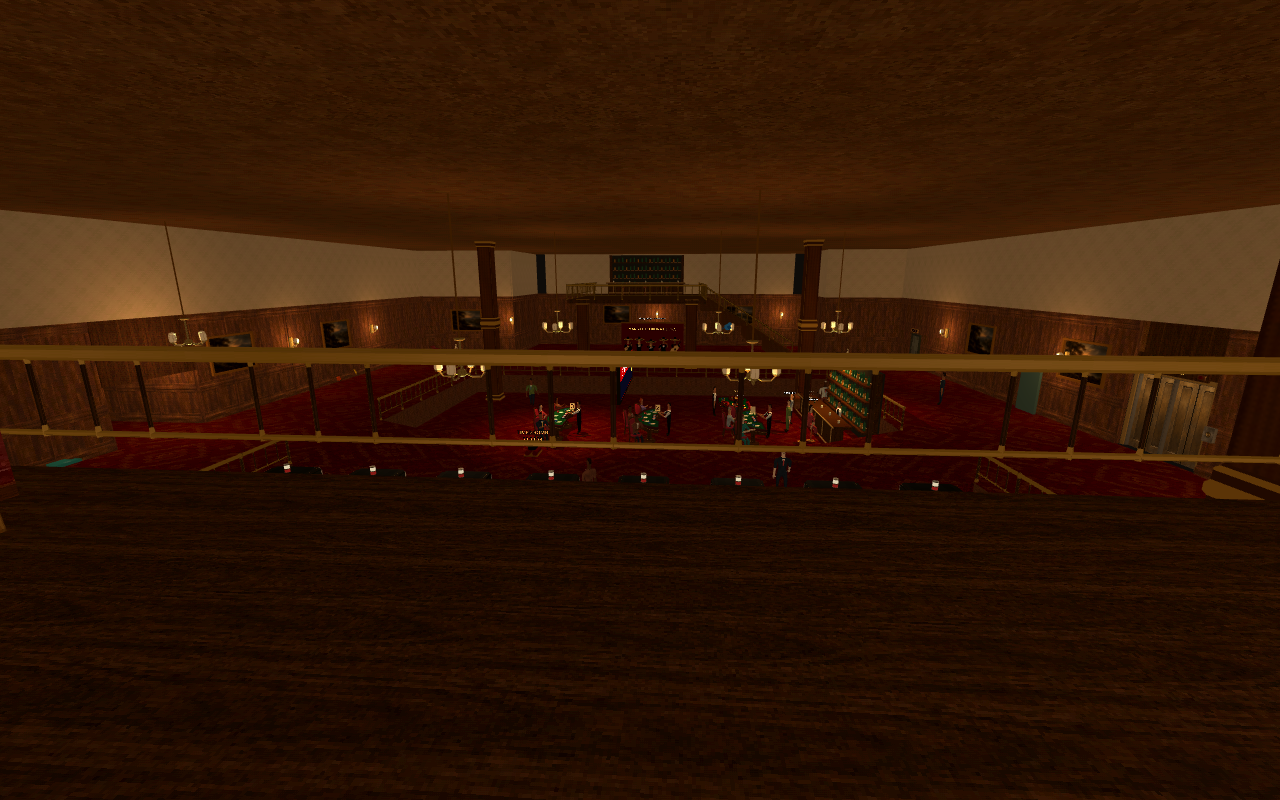
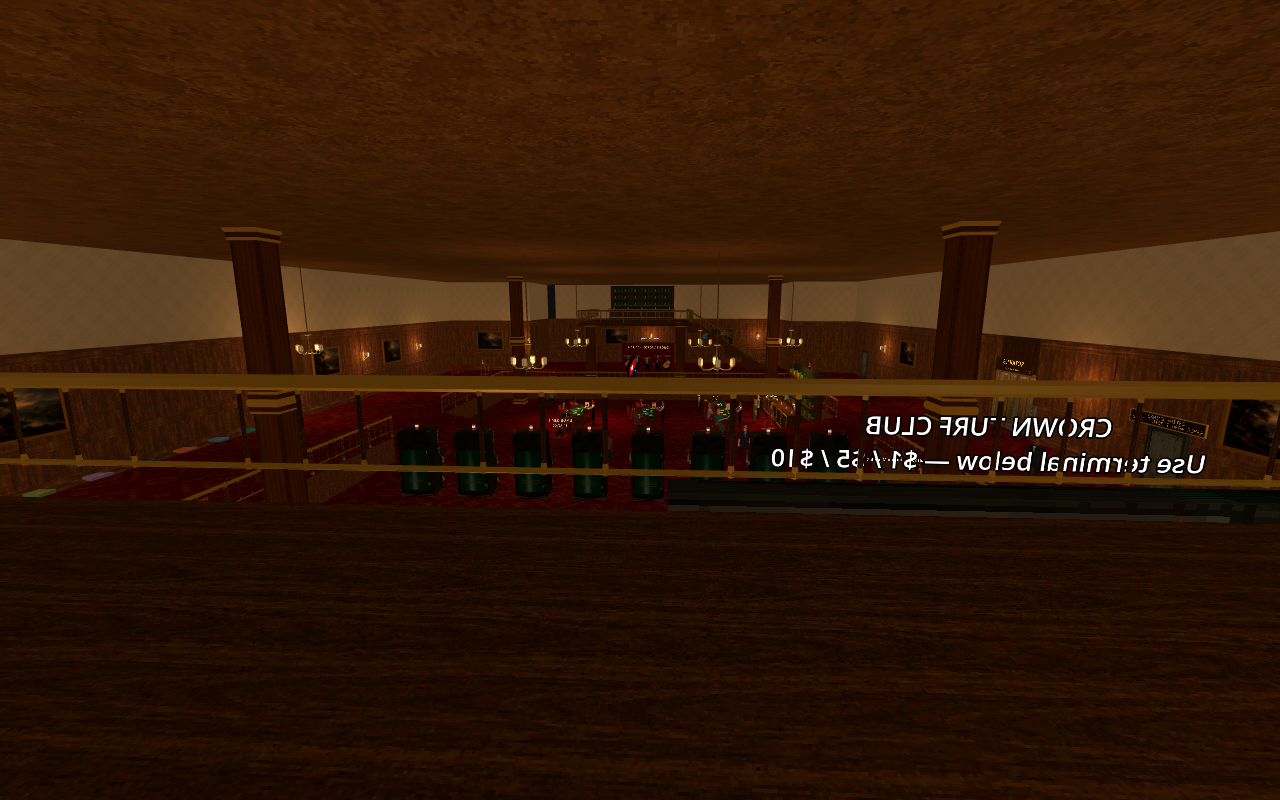
fix(vip_lounge): recess club behind the casino wall

diff --git a/game/features/vip_lounge/README.md b/game/features/vip_lounge/README.md
@@ -1,9 +1,13 @@
 # The Mirror Club
 
-An enclosed east-side mezzanine above the live Golden Crown, at x 16–24,
-y 5–8.75, z -12–12. The north/south ends and floor are saved, editable
-GridMaps using the casino's existing MeshLibrary. The main casino supplies its
-east wall and ceiling. Two bounded amber lights bring the casino's authored light
+An enclosed lounge recessed behind the Golden Crown's east wall, at x 24–32,
+y 5–8.75, z -12–12. Its deck has no overhang into the main casino floor. The
+north/south ends, outer wall, floor and ceiling are saved, editable GridMaps using
+the casino's existing MeshLibrary. A full-height outer shell encloses the recess;
+the ceiling has its own roof collision. The main casino's matching upper east
+wall panels are replaced by the shared, sealed one-way pane at x 24. The casino
+owns this window so standalone previews retain a closed hull. Two bounded amber
+lights bring the casino's authored light
 count to 32; no new shadow lights or large textures are introduced. Furniture,
 bar, stools, glasses and evening guests reuse existing native assets.
 
@@ -129,9 +133,13 @@ harness/verify.sh
 ```
 
 The furniture builder preserves prefab instances rather than flattening their
-children; loading the game never repaints the saved GridMaps. The horse-betting
-monitor is reduced vertically to keep its display below the five-metre deck,
-preserving the terminal, six-metre display width, interaction and ground route.
+children; loading the game never repaints the saved GridMaps. The room's original
+local coordinates are offset eight metres east by its `Interior` instance.
+To migrate only the casino's saved upper wall opening without rebuilding unrelated
+layout, run `godot --headless --path game -s res://features/vip_lounge/tools/recess_casino.gd`.
+The casino's full offline builder calls `gridmap/vip_window.gd` to retain the
+recess during future rebuilds. The entrance remains on the east promenade; its
+upstairs arrival, exit, stations and GPS bounds follow the moved room.
 
 Rendered review (requires a display):
 

diff --git a/game/features/casino_hub/gridmap/README.md b/game/features/casino_hub/gridmap/README.md
@@ -51,6 +51,15 @@ Structural tiles have one collider; ceiling tiles use the existing room slab
 colliders. Collision uses world layer 1, matching player movement.
 Floor and ramp tiles reuse the existing casino carpet material and texture.
 
+The upper east wall has a recessed viewing pane at x 24, y 5–8.75, z -12–12.
+`vip_window.gd` replaces just those 24 upper stucco cells with a sealed one-way
+window prefab. Ground-level panels and adjacent upper panels remain intact. The
+Mirror Club's own GridMaps occupy x 24–32 behind it, with no deck over the main
+hall. The window belongs to the saved casino scene, so standalone previews keep
+collision and privacy even without the feature loader. The full builder preserves
+the inset; `features/vip_lounge/tools/recess_casino.gd` is the narrow saved-scene
+migration for this opening.
+
 Grid cells are **1 × 0.25 × 1 m**, centered in X/Z and floor-aligned in Y.
 Cell `(x, y, z)` has its origin at `(x + 0.5, y × 0.25, z + 0.5)`.
 Walls sit on the local negative-Z edge, face +Z and start at the cell's floor height.
